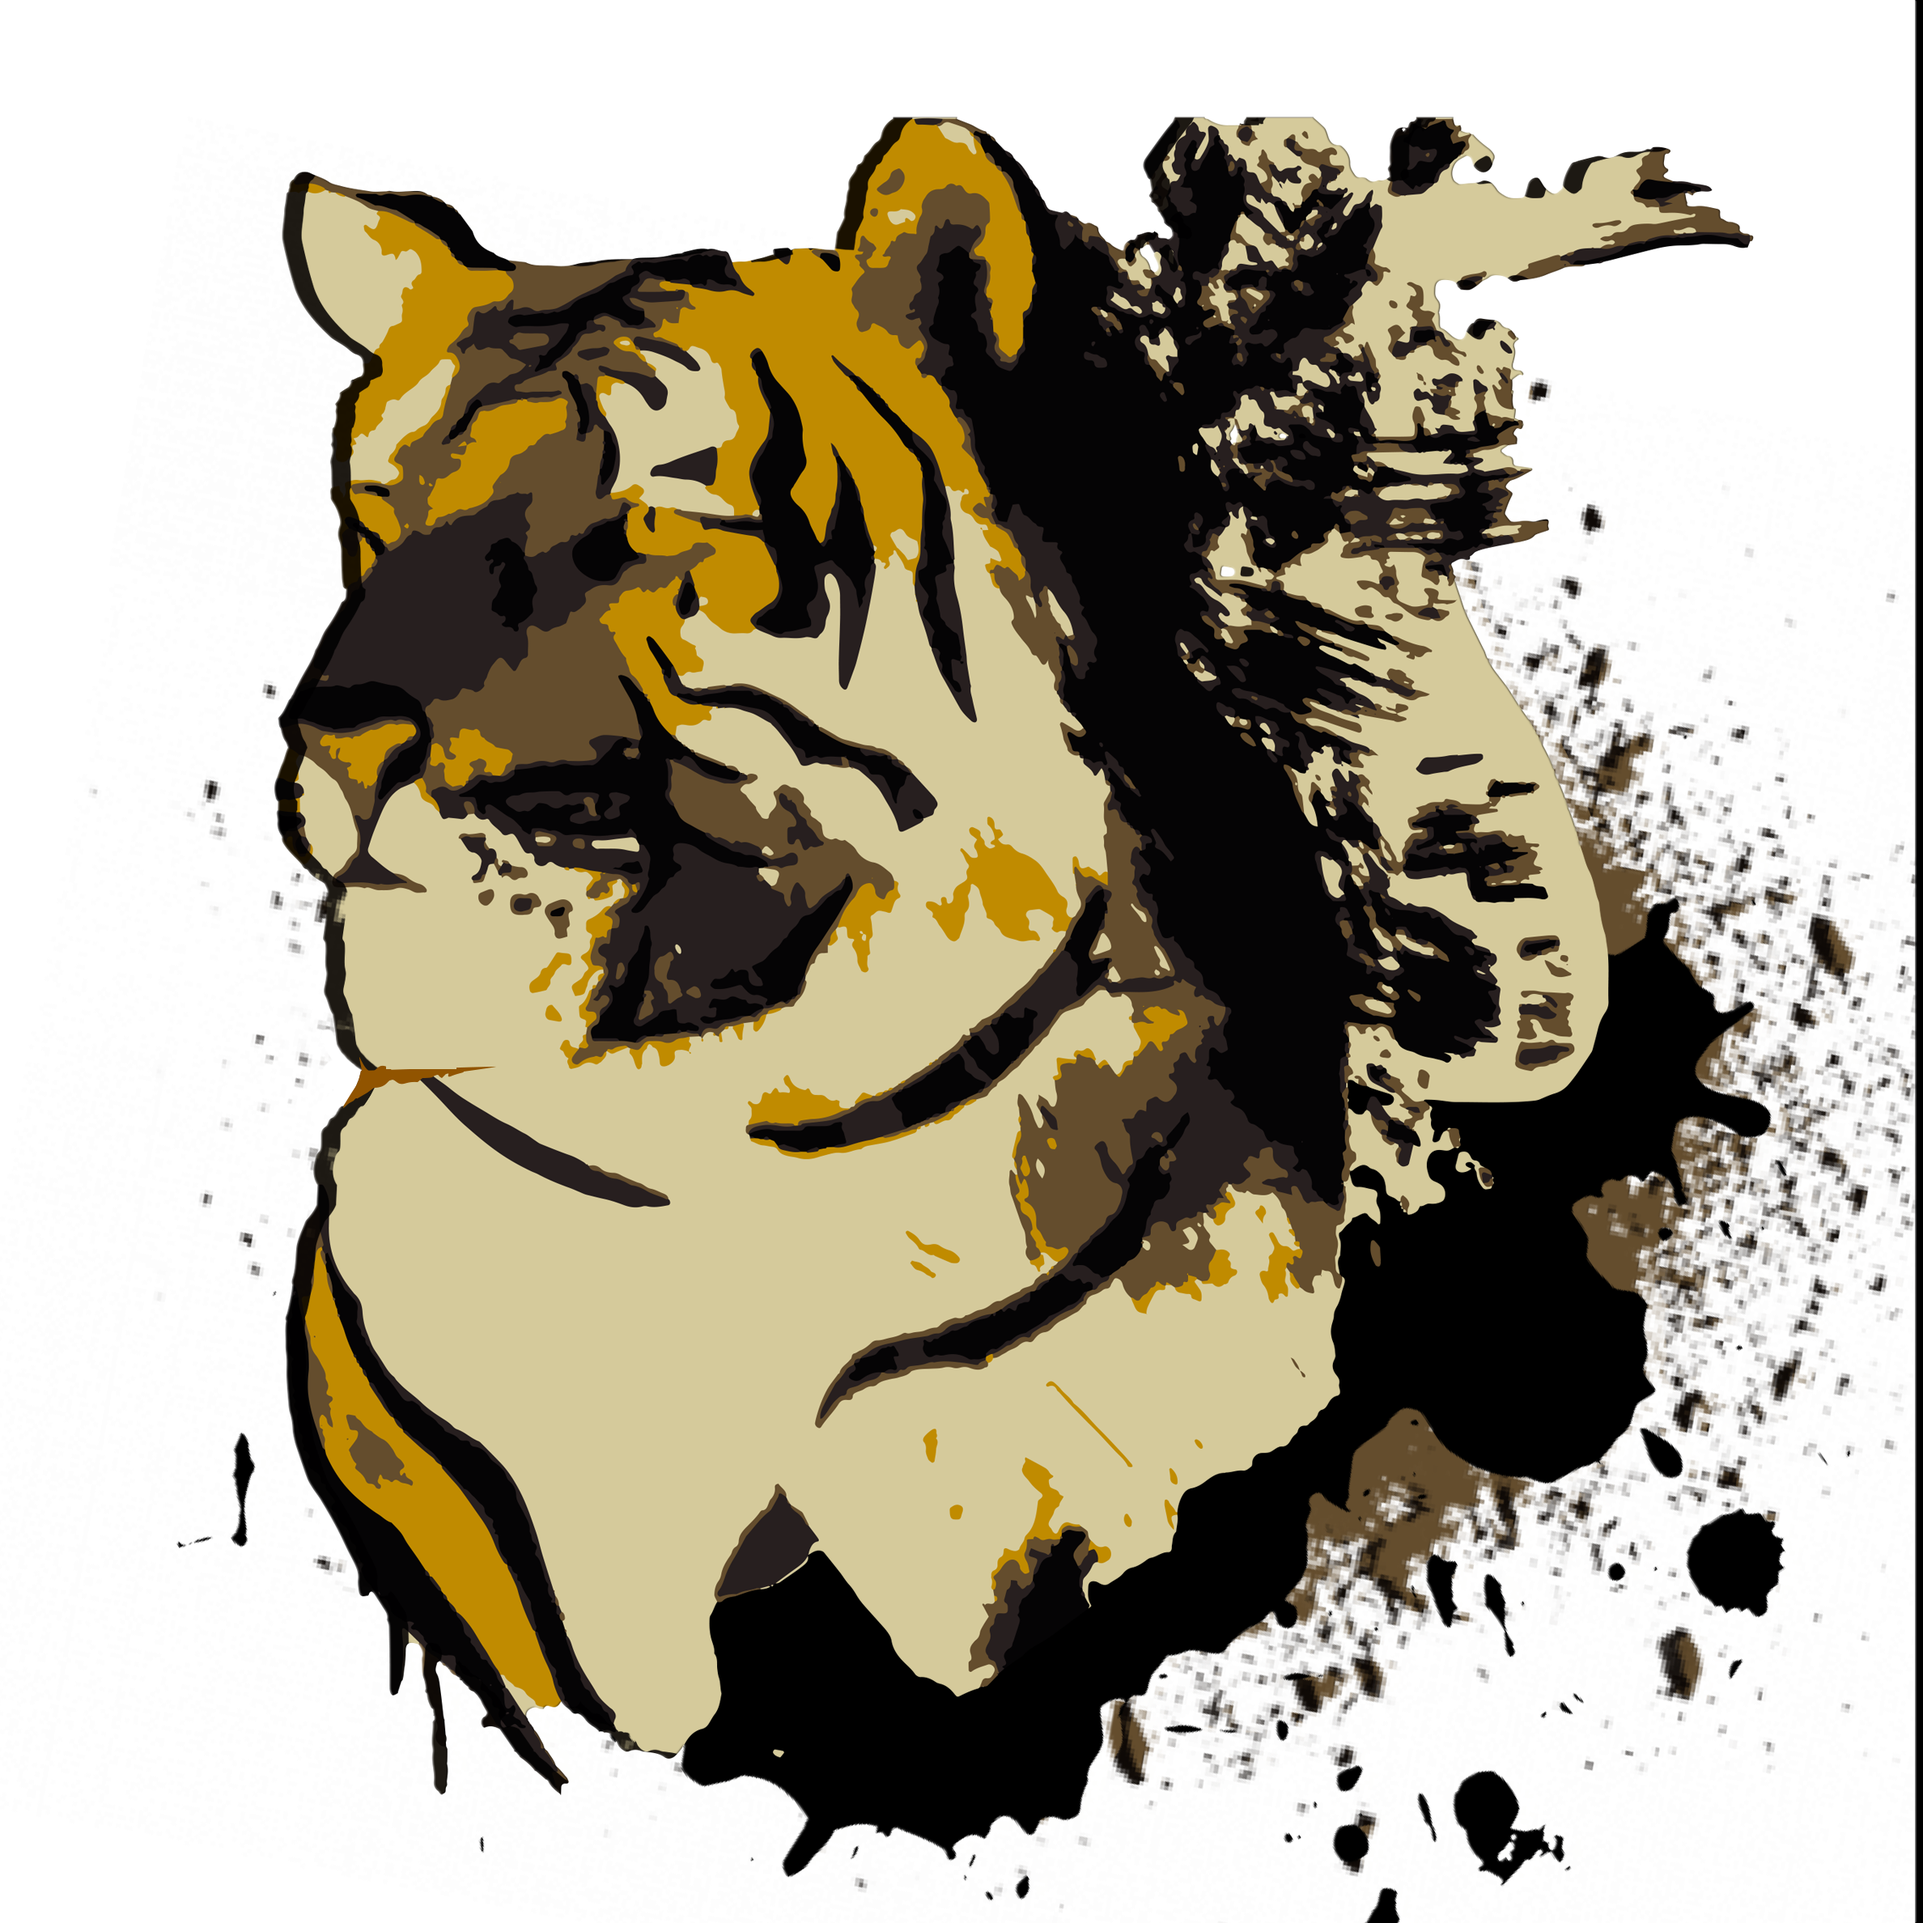
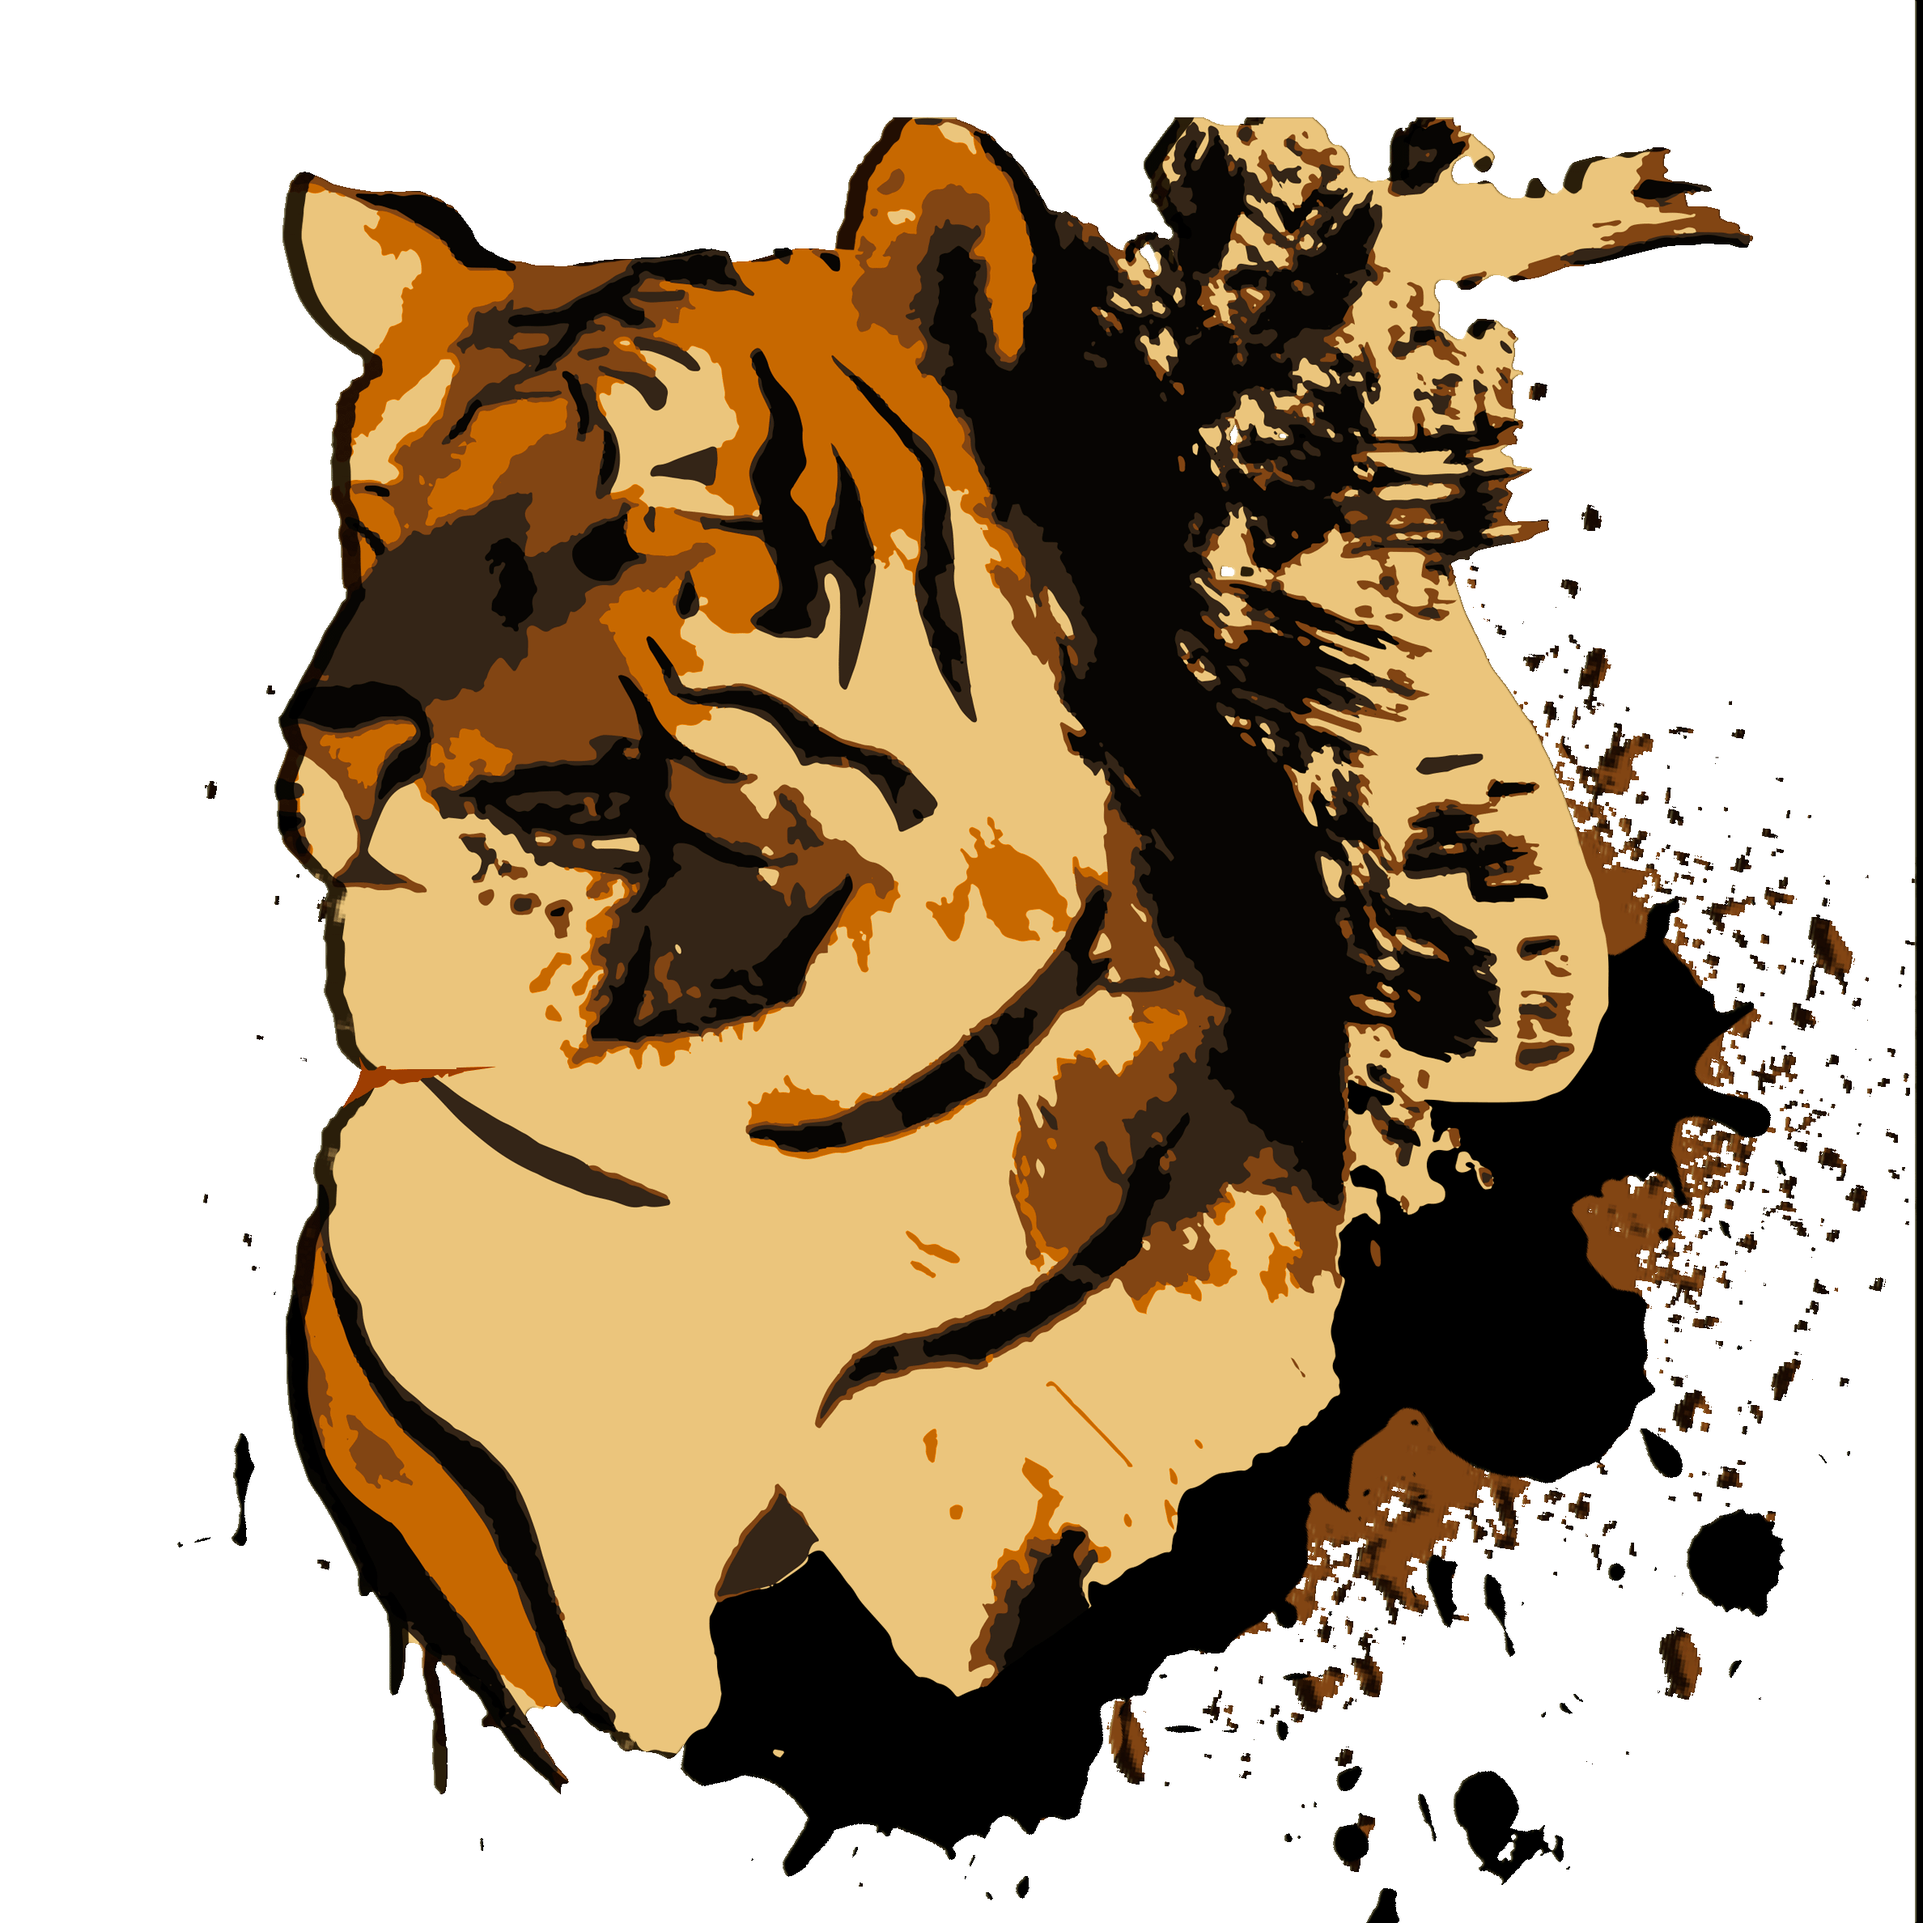
more content, some code refactoring

diff --git a/src/routes/+page.svelte b/src/routes/+page.svelte
@@ -40,13 +40,13 @@
             <AnimatedHeadline texts={['Hello, I am ', 'Mijn naam is ', 'Sveiki, aš ', '哈喽，我是 ']}/>
              Marius.<Blinker class="flex"/>
         </h1>
-        <p transition:fly="{{ x: 200, duration: 2000 }}" class="pt-8 lg:pl-[3.7rem] text-justify">Lorem ipsum dolor sit amet, consectetur adipiscing elit. <mark>Ut optime, secundum naturam affectum esse possit.</mark> <a href="http://loripsum.net/" target="_blank">Hanc quoque iucunditatem, si vis, transfer in animum;</a> <i>Quod equidem non reprehendo;</i> <a href="http://loripsum.net/" target="_blank">Duo Reges: constructio interrete.</a> Nec vero sum nescius esse utilitatem in historia, non modo voluptatem. Inde sermone vario sex illa a Dipylo stadia confecimus. Cum autem in quo sapienter dicimus, id a primo rectissime dicitur. </p>
-        <img class="pt-8 lg:pl-8 drop-shadow-[0rem_9.3rem_0px_rgba(0,0,0,0.5)]" src="../../plane.gif"/>
+        <p class="py-8 lg:pl-[3.7rem] text-justify"><mark>Welcome to my portfolio!</mark> As an artist turned developer, I'm passionate about creating 3D models, digital and acrylic art. My work is a reflection of my journey and showcases my skills in both design and technology. Take a look around and see how I blend creativity with technical expertise to produce unique and engaging visual experiences.</p>
+        <img class="lg:pl-8 drop-shadow-[0rem_10.8rem_0px_rgba(0,0,0,0.5)]" src="../../plane.gif"/>
     </div>
     <div class="flex items-center justify-center">
         <span class="inline-flex pt-64 sm:pt-14 w-4/5">
             <Printer />
-            <iconify-icon class="mt-58 text-4xl absolute" icon="ic:twotone-print"></iconify-icon>
+            <!-- <iconify-icon class="mt-58 text-4xl absolute" icon="ic:twotone-print"></iconify-icon> -->
         </span>
         <svg id="paper" class="sm:mt-[40.2rem] h-1/2 w-[13.2rem] sm:w-[24.1rem] inline-flex bg-[#f5f5f4] absolute">
             <rect />
@@ -64,15 +64,15 @@
 <div class="bg-stone-200 grid grid-cols1 lg:grid-cols-2">
     <div class="bg-[#d6d3d1]">
         <h1 class="pt-8 pb-12 text-center font-sans uppercase font-bold text-5xl">3D modeling</h1>
-        <p class="pb-8 lg:pl-[3.7rem] text-justify pb-8 font-serif">As someone who has used Blender for creating 3D models, I recommend it as a versatile and powerful tool. It offers a wide range of features and tools, along with an intuitive interface that makes it easy to get started. What I appreciate most about Blender is that it provides a lot of freedom for experimentation and customization via its node system, which allowed me to discover my own style and approach to 3D modeling. So, if you're interested in exploring the world of 3D modeling, I highly suggest giving Blender a try. It's a fantastic tool that can help you unlock your creativity and unleash your imagination.</p>
+        <p class="pb-8 lg:pl-[3.7rem] text-justify pb-8 font-serif">As someone who has used <mark>Blender for creating 3D models</mark>, I recommend it as a versatile and powerful tool. It offers a wide range of features and tools, along with an <mark>intuitive interface that makes it easy to get started.</mark> What I appreciate most about Blender is that it provides a lot of freedom for experimentation and customization via its <mark>extensive node system</mark>, which allowed me to discover my own style and approach to 3D modeling. So, if you're interested in exploring the world of 3D modeling, I highly suggest giving Blender a try. It's a fantastic tool that can help you unlock your creativity and unleash your imagination.</p>
     </div>
     <div class="bg-[#d6d3d1]"></div>
     <div class="bg-[#a8a29e]">
         <img src="../../ghost.gif" alt="ghost"/>
     </div>
-    <div class="py-8 bg-[#a8a29e]">
+    <div class="py-8 lg:px-[3.7rem] bg-[#a8a29e]">
         <h2 class="py-8 text-center font-sans font-bold text-5xl">A (very!) scary ghost</h2>
-        <p class="lg:pr-[3.7rem] text-justify font-serif">I came across an artist's tweet on Twitter featuring a lovely painting of a charming little ghost. It was so captivating that I felt inspired to recreate it in 3D. Using my 3D modeling skills, I created a cute and whimsical ghost, and to make it stand out, I added a glowing effect. The tricky part was getting the lighting juuuust right. It was a fun and fulfilling project that showcased the power of artistic inspiration.</p>
+        <p class="text-justify font-serif"><mark>I came across an artist's tweet on Twitter featuring a lovely painting of a charming little ghost.</mark> It was so captivating that I felt inspired to recreate it in 3D. Using my 3D modeling skills, I created a cute and whimsical ghost, and to make it stand out, I added a glowing effect. <mark>The tricky part was getting the lighting juuuust right.</mark> It was a fun and fulfilling project that showcased the power of artistic inspiration.</p>
     </div>
     <div class="bg-[#a8a29e]">
         <img src="../../ghost-shade.png" alt="ghost shaded"/>
@@ -80,9 +80,9 @@
     <div class="bg-[#a8a29e]">
         <img src="../../ghost-wire.png" alt="ghost wired"/>
     </div>
-    <div class="py-8 bg-[#78716c]">
+    <div class="lg:px-[3.7rem] py-8 bg-[#78716c]">
         <h2 class="py-8 text-center font-sans font-bold text-5xl">Various materials</h2>
-        <p class="lg:pl-[3.7rem] text-justify font-serif">In my quest to learn how to create different materials using Blender's node system, I decided to take on a challenging project: a 3D model of a cable that showcased the different layers of insulation. I worked my way from the outermost layer of rubber to the innermost layer of some kind of gel, experimenting with different node combinations and textures to create each layer's unique appearance. The result was a visually stunning 3D model that showcased the power of Blender's node system and my newfound knowledge of creating realistic materials.</p>
+        <p class="text-justify font-serif">In my quest to learn how to create different materials using Blender's node system, I decided to take on a challenging project: <mark>a 3D model of a cable that showcased the different layers of insulation. I worked my way from the outermost layer of rubber to the innermost layer of some kind of gel </mark>, experimenting with different node combinations and textures to create each layer's unique appearance. The result was a visually stunning 3D model that showcased the power of Blender's node system and my <mark>newfound knowledge of creating realistic materials.</mark></p>
     </div>
     <div class="bg-[#78716c]">
         <img src="../../cable.png" alt="cable"/>
@@ -90,22 +90,26 @@
     <div></div>
 </div>
 <div class="bg-stone-200 grid grid-cols-1">
-    <div  class="py-12 bg-[#d6d3d1]">
+    <div  class="lg:px-[7.4rem] py-12 bg-[#d6d3d1]">
         <h1 class="text-center font-sans uppercase font-bold text-5xl">Acrylic paintings</h1>
-        <p class="lg:pl-[7.4rem] lg:pr-[7.4rem] text-center font-serif">What I love most about acrylic paint is how fast it dries, which means that you can work quickly and build up layers to create texture and depth. I also appreciate how easy it is to mix and blend colors to achieve exactly the hue and shade you want. Acrylic paint an be used on so many surfaces, from canvas to wood to paper, which makes it a great choice for a variety of projects. Plus, the clean-up is a breeze, which means more time for painting and less time worrying about the mess.</p>
+        <p class="text-center font-serif">What I love most about acrylic paint is how fast it dries, which means that you can work quickly and build up layers to create texture and depth. I also appreciate how easy it is to mix and blend colors to achieve exactly the hue and shade you want. Acrylic paint an be used on so many surfaces, from canvas to wood to paper, which makes it a great choice for a variety of projects. Plus, the clean-up is a breeze, which means more time for painting and less time worrying about the mess.</p>
     </div>
 </div>
 <div class="bg-stone-200 grid grid-cols1 lg:grid-cols-2">
     <div class="flex justify-center bg-[#a8a29e]">
         <img class="w-[32rem]" src="../../mengmeng.png" alt="a gift"/>
     </div>
-    <div class="py-8 bg-[#a8a29e]">
+    <div class="lg:px-[3.7rem] py-8 bg-[#a8a29e]">
         <h2 class="py-8 font-sans font-bold text-5xl">A gift to 萌萌</h2>
-        <p class="lg:pr-[3.7rem] text-justify font-serif">Lorem ipsum dolor sit amet, consectetur adipiscing elit. <mark>Ut optime, secundum naturam affectum esse possit.</mark> <a href="http://loripsum.net/" target="_blank">Hanc quoque iucunditatem, si vis, transfer in animum;</a> <i>Quod equidem non reprehendo;</i> <a href="http://loripsum.net/" target="_blank">Duo Reges: constructio interrete.</a> Nec vero sum nescius esse utilitatem in historia, non modo voluptatem. Inde sermone vario sex illa a Dipylo stadia confecimus. Cum autem in quo sapienter dicimus, id a primo rectissime dicitur. </p>
+        <p class=" text-justify font-serif">For my dear girlfriend 萌萌, an acrylic painting of her sitting amidst a colorful meadow on our weekend walk at the Park Frankendael. <mark>The painting features a fish-eye perspective, accentuating the vibrant colors of the sky and the ever so delicate flowers.</mark> A treasured memory of our cherished moments together.</p>
     </div>
-    <div class="py-8 bg-[#78716c]">
+    <div class="lg:pl-[3.7rem] py-8 bg-[#78716c]">
         <h2 class="py-8 text-center font-sans font-bold text-5xl">The emblem of class 1B</h2>
-        <p class="lg:pl-[3.7rem] text-justify font-serif"></p>
+        <p class="text-justify font-serif">The emblem of class 1B was a challenging project that required my expertise in both traditional and digital art. I began by painting a portrait of a majestic tiger using acrylics on a flat sheet of A3 size paper. The painting was then <mark>captured using my old phone, which resulted in a low-quality image.</mark> But that didn't stop me from bringing the painting to life digitally. <mark>I used various image processing techniques, including upscaling with AI</mark> and carefully enhancing the details to create a stunning digital painting that captures the essence of the original artwork. The end result was a beautiful emblem that represents the spirit of class 1B with pride and elegance.</p>
+        <div class="py-8 grid grid-cols1 lg:grid-cols-2">
+            <img src="tiger-og.jpg" alt="The original painting of a tiger"/>
+            <img src="tiger-edited.png" alt="Color adjusted version of the painting"/>
+        </div>
     </div>
     <div class="bg-[#78716c]">
         <img class="drop-shadow-[5rem_5rem_0px_rgba(0,0,0,1)]" src="../../tiger.png" alt="tiger">

diff --git a/svelte.config.js b/svelte.config.js
@@ -1,4 +1,4 @@
-import adapter from '@sveltejs/adapter-auto';
+import adapter from '@sveltejs/adapter-node';
 import { vitePreprocess } from '@sveltejs/kit/vite';
 
 /** @type {import('@sveltejs/kit').Config} */
@@ -11,7 +11,13 @@ const config = {
 		// adapter-auto only supports some environments, see https://kit.svelte.dev/docs/adapter-auto for a list.
 		// If your environment is not supported or you settled on a specific environment, switch out the adapter.
 		// See https://kit.svelte.dev/docs/adapters for more information about adapters.
-		adapter: adapter()
+		adapter: adapter({
+			pages: 'build',
+            assets: 'build',
+            fallback: null,
+            precompress: false,
+            strict: true
+		})
 	}
 };
 

diff --git a/src/routes/+layout.js b/src/routes/+layout.js
@@ -1,0 +1,1 @@
+export const prerender = true;
